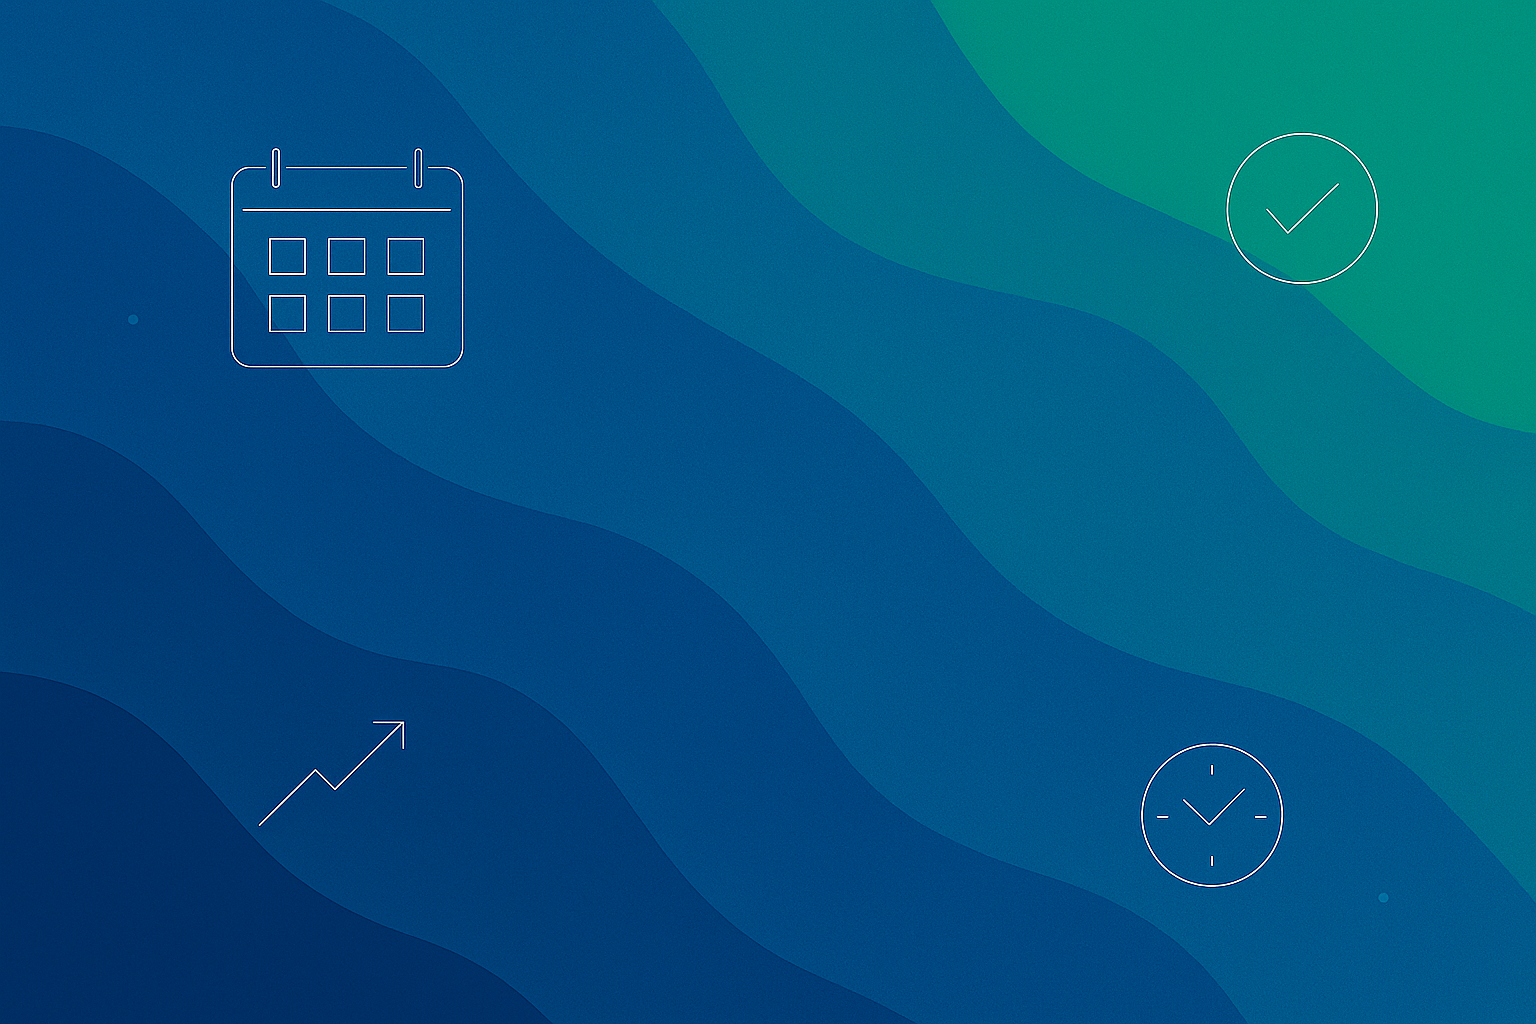
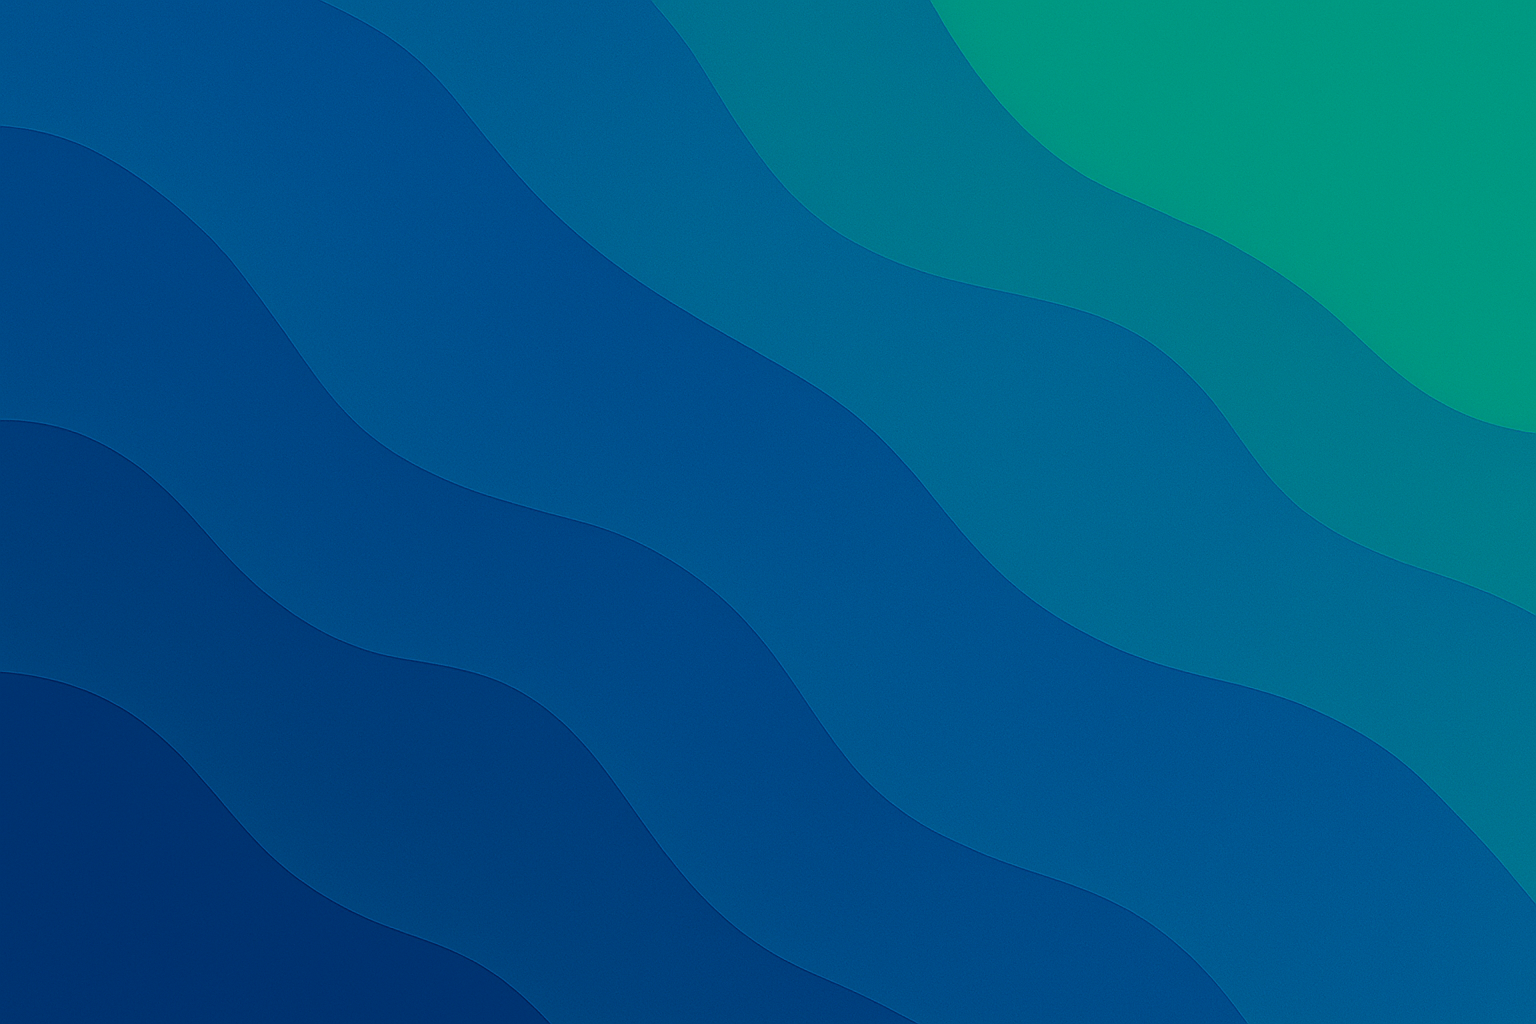
Style: cambio background y estilos de botones settings

diff --git a/frontend/src/styles/ControlPanelStyle.css b/frontend/src/styles/ControlPanelStyle.css
@@ -160,3 +160,46 @@
     color: #fff;
     padding: 10px 20px;
 }
+
+.input-row-user {
+    display: grid;
+    gap: 20px;
+    margin-bottom: 20px;
+    grid-template-columns: 1fr 1fr;
+}
+
+.input-box-user {
+    position: relative;    
+    height: 50px;
+}
+
+.input-box-user input {
+    width: 100%;
+    height: 100%;
+    background: transparent;
+    border: 2px solid rgba(255, 255, 255, 0.2);
+    outline: none;
+    border-radius: 40px;
+    font-size: 16px;
+    color: #fff;
+    padding: 0 45px 0 20px;
+}
+
+.input-box-user .icon {
+    position: absolute; 
+    top: 50%;
+    right: 20px;
+    transform: translateY(-50%);
+    font-size: 16px;
+    color: #fff;
+}
+
+.input-select-user {
+    width: 100%;
+    padding: 10px 20px;
+    border-radius: 40px;
+    font-size: 16px;
+    border: 2px solid rgba(255, 255, 255, 0.2);
+    background: transparent;
+    color: #fff;
+}

diff --git a/frontend/src/styles/SettingsStyle.css b/frontend/src/styles/SettingsStyle.css
@@ -7,11 +7,19 @@
     gap: 10px;
 }
 
-.back-btn {
+.panel-header .back-btn {
     display: inline-flex;
     justify-content: center;
     align-items: center;
     gap: 10px;
+    background: transparent;
+    border: none;
+    border-radius: 40px;
+    box-shadow: 0 0 10px rgb(0, 0, 0, 0.1);
+    cursor: pointer;
+    font-size: 16px;
+    color: #fff;
+    padding: 10px 20px;
 }
 
 .buttom-row button{

diff --git a/frontend/public/index.html b/frontend/public/index.html
@@ -24,7 +24,7 @@
       work correctly both with client-side routing and a non-root public URL.
       Learn how to configure a non-root public URL by running `npm run build`.
     -->
-    <title>React App</title>
+    <title>Control laboral</title>
   </head>
   <body>
     <noscript>You need to enable JavaScript to run this app.</noscript>

diff --git a/frontend/src/index.css b/frontend/src/index.css
@@ -21,6 +21,7 @@ body {
   background: url(./assets/background.png) no-repeat;
   background-size: cover;
   background-position: center;
+  background-attachment: fixed;
   overflow-x: hidden;
 }
 
